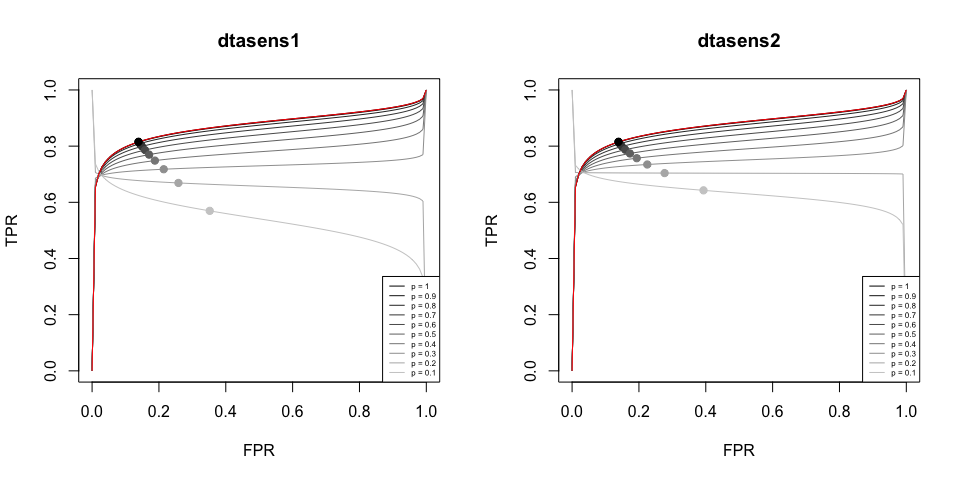
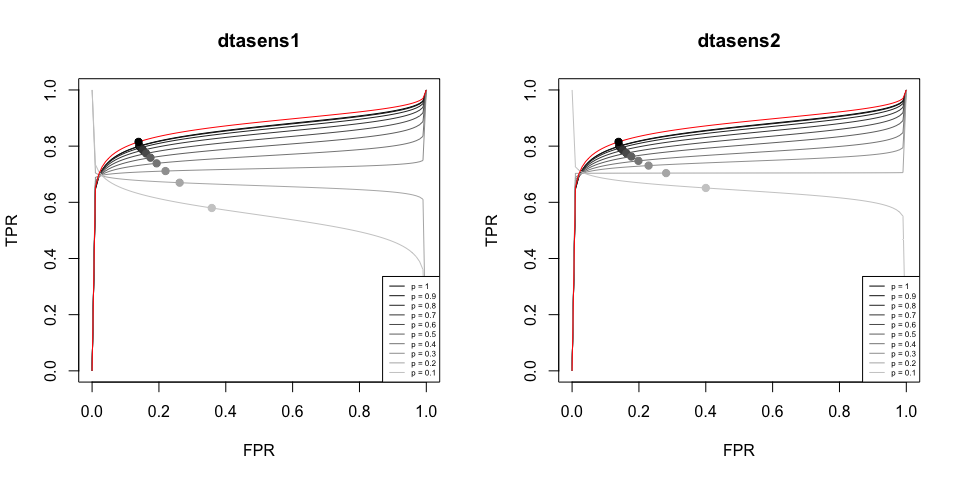
update all

diff --git a/README.md b/README.md
@@ -61,36 +61,36 @@ function.
 dtasens1(IVD, p = 0.7)
 #> $par
 #>     u1     u2     t1     t2      r    t12      b      a    c11    c22    auc 
-#>  1.380  1.740  0.596  0.845 -0.354 -0.178  2.000 -4.290  0.500  0.500  0.851 
+#>  1.299  1.717  0.552  0.842 -0.343 -0.159  2.000 -4.308  0.500  0.500  0.836 
 #>     se     sp 
-#>  0.799  0.851 
+#>  0.786  0.848 
 #> 
 #> $ci
 #>    estimate ci.low ci.up
-#> u1    1.380  1.081  1.67
-#> u2    1.740  1.459  2.02
-#> t1    0.596  0.303  1.01
-#> t2    0.845  0.645  1.15
-#> r    -0.354 -0.748  0.15
-#> b     2.000  0.972    NA
+#> u1    1.299  1.017 1.576
+#> u2    1.717  1.436 1.993
+#> t1    0.552  0.275 0.933
+#> t2    0.842  0.643 1.149
+#> r    -0.343 -0.746 0.164
+#> b     2.000  0.929    NA
 
 ## If we change b.interval
 
 dtasens1(IVD, p = 0.7, b.interval = c(0,1))
 #> $par
 #>     u1     u2     t1     t2      r    t12      b      a    c11    c22    auc 
-#>  1.367  1.729  0.592  0.845 -0.353 -0.177  1.000 -2.077  0.500  0.500  0.849 
+#>  1.288  1.707  0.548  0.842 -0.344 -0.159  1.000 -2.106  0.500  0.500  0.834 
 #>     se     sp 
-#>  0.797  0.849 
+#>  0.784  0.846 
 #> 
 #> $ci
 #>    estimate ci.low ci.up
-#> u1    1.367  1.060 1.672
-#> u2    1.729  1.441 2.015
-#> t1    0.592  0.298 1.005
-#> t2    0.845  0.645 1.151
-#> r    -0.353 -0.748 0.152
-#> b     1.000  0.633    NA
+#> u1    1.288  1.000 1.574
+#> u2    1.707  1.420 1.992
+#> t1    0.548  0.272 0.930
+#> t2    0.842  0.643 1.149
+#> r    -0.344 -0.747 0.164
+#> b     1.000  0.623    NA
 
 ## To get full results list
 
@@ -98,39 +98,39 @@ opt1 <- dtasens1(IVD, p = 0.7)
 
 str(opt1)
 #> List of 11
-#>  $ par        : Named num [1:13] 1.38 1.74 0.596 0.845 -0.354 ...
+#>  $ par        : Named num [1:13] 1.299 1.717 0.552 0.842 -0.343 ...
 #>   ..- attr(*, "names")= chr [1:13] "u1" "u2" "t1" "t2" ...
-#>  $ value      : num 22.9
+#>  $ value      : num 20.9
 #>  $ counts     : Named int [1:2] 18 18
 #>   ..- attr(*, "names")= chr [1:2] "function" "gradient"
 #>  $ convergence: int 0
 #>  $ message    : chr "CONVERGENCE: REL_REDUCTION_OF_F <= FACTR*EPSMCH"
-#>  $ ci         : num [1:6, 1:3] 1.38 1.74 0.596 0.845 -0.354 ...
+#>  $ ci         : num [1:6, 1:3] 1.299 1.717 0.552 0.842 -0.343 ...
 #>   ..- attr(*, "dimnames")=List of 2
 #>   .. ..$ : chr [1:6] "u1" "u2" "t1" "t2" ...
 #>   .. ..$ : chr [1:3] "estimate" "ci.low" "ci.up"
 #>  $ auc.all    :List of 5
-#>   ..$ value       : num 0.851
-#>   ..$ abs.error   : num 1.09e-06
+#>   ..$ value       : num 0.836
+#>   ..$ abs.error   : num 8.84e-07
 #>   ..$ subdivisions: int 10
 #>   ..$ message     : chr "OK"
 #>   ..$ call        : language integrate(f = function(x) {     plogis(u1 - (r * t1/t2) * (qlogis(x) + u2)) ...
 #>   ..- attr(*, "class")= chr "integrate"
 #>  $ p.hat      : num 0.7
 #>  $ data       :'data.frame': 33 obs. of  7 variables:
-#>   ..$ sens  : num [1:33] 0.962 0.833 0.944 0.964 0.9 ...
-#>   ..$ spec  : num [1:33] 0.908 0.837 0.702 0.785 0.913 ...
-#>   ..$ y1    : num [1:33] 3.22 1.61 2.83 3.3 2.2 ...
-#>   ..$ y2    : num [1:33] 2.284 1.638 0.859 1.294 2.35 ...
-#>   ..$ v1    : num [1:33] 2.08 0.6 1.06 2.07 2.22 ...
-#>   ..$ v2    : num [1:33] 0.0374 0.0853 0.0395 0.0689 0.0509 ...
-#>   ..$ ldor.t: num [1:33] 3.78 3.92 3.52 3.14 3.02 ...
+#>   ..$ sens  : num [1:33] 0.962 0.808 0.921 0.964 0.9 ...
+#>   ..$ spec  : num [1:33] 0.908 0.833 0.701 0.785 0.913 ...
+#>   ..$ y1    : num [1:33] 3.22 1.44 2.46 3.3 2.2 ...
+#>   ..$ y2    : num [1:33] 2.284 1.609 0.851 1.294 2.35 ...
+#>   ..$ v1    : num [1:33] 2.08 0.495 0.724 2.074 2.222 ...
+#>   ..$ v2    : num [1:33] 0.0374 0.0828 0.0391 0.0689 0.0509 ...
+#>   ..$ ldor.t: num [1:33] 3.78 4 3.79 3.14 3.02 ...
 #>  $ func.name  : chr "dtasens1"
 #>  $ pars.info  :List of 12
 #>   ..$ p                : num 0.7
 #>   ..$ c1               : num 0.707
 #>   ..$ correct.value    : num 0.5
-#>   ..$ correct.type     : chr "single"
+#>   ..$ correct.type     : chr "all"
 #>   ..$ start5           : NULL
 #>   ..$ b0               : num 0.1
 #>   ..$ b.interval       : num [1:2] 0 2
@@ -166,19 +166,19 @@ kable(est1)
 
 |     |   p = 1 | p = 0.9 | p = 0.8 | p = 0.7 | p = 0.6 | p = 0.5 | p = 0.4 | p = 0.3 | p = 0.2 | p = 0.1 |
 | :-- | ------: | ------: | ------: | ------: | ------: | ------: | ------: | ------: | ------: | ------: |
-| u1  |   1.484 |   1.478 |   1.442 |   1.380 |   1.301 |   1.207 |   1.091 |   0.933 |   0.704 |   0.280 |
-| u2  |   1.824 |   1.819 |   1.791 |   1.740 |   1.671 |   1.582 |   1.464 |   1.299 |   1.054 |   0.610 |
-| t1  |   0.597 |   0.599 |   0.600 |   0.596 |   0.592 |   0.594 |   0.605 |   0.634 |   0.688 |   0.793 |
-| t2  |   0.826 |   0.828 |   0.835 |   0.845 |   0.857 |   0.873 |   0.897 |   0.933 |   0.986 |   1.077 |
-| r   | \-0.424 | \-0.415 | \-0.388 | \-0.354 | \-0.310 | \-0.254 | \-0.176 | \-0.068 |   0.071 |   0.256 |
-| t12 | \-0.209 | \-0.206 | \-0.195 | \-0.178 | \-0.158 | \-0.132 | \-0.096 | \-0.040 |   0.048 |   0.218 |
-| b   |   0.100 |   2.000 |   2.000 |   2.000 |   2.000 |   2.000 |   2.000 |   2.000 |   1.930 |   1.820 |
-| a   |  10.650 | \-2.553 | \-3.636 | \-4.290 | \-4.757 | \-5.123 | \-5.425 | \-5.679 | \-5.729 | \-5.664 |
+| u1  |   1.388 |   1.383 |   1.352 |   1.299 |   1.230 |   1.146 |   1.040 |   0.902 |   0.707 |   0.322 |
+| u2  |   1.804 |   1.799 |   1.769 |   1.717 |   1.645 |   1.553 |   1.430 |   1.267 |   1.036 |   0.584 |
+| t1  |   0.545 |   0.548 |   0.550 |   0.552 |   0.554 |   0.561 |   0.578 |   0.606 |   0.649 |   0.745 |
+| t2  |   0.819 |   0.822 |   0.830 |   0.842 |   0.857 |   0.876 |   0.903 |   0.940 |   0.990 |   1.085 |
+| r   | \-0.423 | \-0.412 | \-0.382 | \-0.343 | \-0.294 | \-0.233 | \-0.151 | \-0.050 |   0.069 |   0.252 |
+| t12 | \-0.189 | \-0.186 | \-0.175 | \-0.159 | \-0.140 | \-0.114 | \-0.079 | \-0.029 |   0.044 |   0.204 |
+| b   |   0.100 |   2.000 |   2.000 |   2.000 |   2.000 |   2.000 |   2.000 |   1.915 |   1.759 |   1.674 |
+| a   |  10.650 | \-2.556 | \-3.647 | \-4.308 | \-4.781 | \-5.151 | \-5.456 | \-5.506 | \-5.352 | \-5.358 |
 | c11 |   0.500 |   0.500 |   0.500 |   0.500 |   0.500 |   0.500 |   0.500 |   0.500 |   0.500 |   0.500 |
 | c22 |   0.500 |   0.500 |   0.500 |   0.500 |   0.500 |   0.500 |   0.500 |   0.500 |   0.500 |   0.500 |
-| auc |   0.874 |   0.872 |   0.864 |   0.851 |   0.834 |   0.810 |   0.778 |   0.729 |   0.657 |   0.540 |
-| se  |   0.815 |   0.814 |   0.809 |   0.799 |   0.786 |   0.770 |   0.749 |   0.718 |   0.669 |   0.570 |
-| sp  |   0.861 |   0.860 |   0.857 |   0.851 |   0.842 |   0.829 |   0.812 |   0.786 |   0.742 |   0.648 |
+| auc |   0.859 |   0.857 |   0.849 |   0.836 |   0.819 |   0.795 |   0.763 |   0.720 |   0.659 |   0.554 |
+| se  |   0.800 |   0.799 |   0.794 |   0.786 |   0.774 |   0.759 |   0.739 |   0.711 |   0.670 |   0.580 |
+| sp  |   0.859 |   0.858 |   0.854 |   0.848 |   0.838 |   0.825 |   0.807 |   0.780 |   0.738 |   0.642 |
 
 ### Function: dtasens2
 
@@ -197,19 +197,19 @@ function.
 dtasens2(IVD, p = 0.7)
 #> $par
 #>     u1     u2     t1     t2      r    t12      b      a    c11    c22    auc 
-#>  1.379  1.741  0.596  0.844 -0.353 -0.178  2.000 -4.254  0.509  0.491  0.851 
+#>  1.297  1.719  0.552  0.841 -0.342 -0.159  2.000 -4.257  0.514  0.486  0.836 
 #>     se     sp 
-#>  0.799  0.851 
+#>  0.785  0.848 
 #> 
 #> $ci
 #>    estimate ci.low ci.up
-#> u1    1.379  1.079 1.672
-#> u2    1.741  1.460 2.018
-#> t1    0.596  0.303 1.009
-#> t2    0.844  0.645 1.149
-#> r    -0.353 -0.748 0.150
-#> b     2.000  0.977    NA
-#> c1    0.714  0.418 0.918
+#> u1    1.297  1.015 1.574
+#> u2    1.719  1.438 1.995
+#> t1    0.552  0.275 0.936
+#> t2    0.841  0.642 1.147
+#> r    -0.342 -0.745 0.164
+#> b     2.000  0.937    NA
+#> c1    0.717  0.411 0.919
 
 ## To get full results list
 
@@ -217,38 +217,38 @@ opt2 <- dtasens2(IVD, p = 0.7)
 
 str(opt2)
 #> List of 11
-#>  $ par        : Named num [1:13] 1.379 1.741 0.596 0.844 -0.353 ...
+#>  $ par        : Named num [1:13] 1.297 1.719 0.552 0.841 -0.342 ...
 #>   ..- attr(*, "names")= chr [1:13] "u1" "u2" "t1" "t2" ...
-#>  $ value      : num 22.9
-#>  $ counts     : Named int [1:2] 19 19
+#>  $ value      : num 20.9
+#>  $ counts     : Named int [1:2] 16 16
 #>   ..- attr(*, "names")= chr [1:2] "function" "gradient"
 #>  $ convergence: int 0
 #>  $ message    : chr "CONVERGENCE: REL_REDUCTION_OF_F <= FACTR*EPSMCH"
-#>  $ ci         : num [1:7, 1:3] 1.379 1.741 0.596 0.844 -0.353 ...
+#>  $ ci         : num [1:7, 1:3] 1.297 1.719 0.552 0.841 -0.342 ...
 #>   ..- attr(*, "dimnames")=List of 2
 #>   .. ..$ : chr [1:7] "u1" "u2" "t1" "t2" ...
 #>   .. ..$ : chr [1:3] "estimate" "ci.low" "ci.up"
 #>  $ auc.all    :List of 5
-#>   ..$ value       : num 0.851
-#>   ..$ abs.error   : num 1.09e-06
+#>   ..$ value       : num 0.836
+#>   ..$ abs.error   : num 8.84e-07
 #>   ..$ subdivisions: int 10
 #>   ..$ message     : chr "OK"
 #>   ..$ call        : language integrate(f = function(x) {     plogis(u1 - (r * t1/t2) * (qlogis(x) + u2)) ...
 #>   ..- attr(*, "class")= chr "integrate"
 #>  $ p.hat      : num 0.7
 #>  $ data       :'data.frame': 33 obs. of  7 variables:
-#>   ..$ sens  : num [1:33] 0.962 0.833 0.944 0.964 0.9 ...
-#>   ..$ spec  : num [1:33] 0.908 0.837 0.702 0.785 0.913 ...
-#>   ..$ y1    : num [1:33] 3.22 1.61 2.83 3.3 2.2 ...
-#>   ..$ y2    : num [1:33] 2.284 1.638 0.859 1.294 2.35 ...
-#>   ..$ v1    : num [1:33] 2.08 0.6 1.06 2.07 2.22 ...
-#>   ..$ v2    : num [1:33] 0.0374 0.0853 0.0395 0.0689 0.0509 ...
-#>   ..$ ldor.t: num [1:33] 3.78 3.92 3.52 3.14 3.02 ...
+#>   ..$ sens  : num [1:33] 0.962 0.808 0.921 0.964 0.9 ...
+#>   ..$ spec  : num [1:33] 0.908 0.833 0.701 0.785 0.913 ...
+#>   ..$ y1    : num [1:33] 3.22 1.44 2.46 3.3 2.2 ...
+#>   ..$ y2    : num [1:33] 2.284 1.609 0.851 1.294 2.35 ...
+#>   ..$ v1    : num [1:33] 2.08 0.495 0.724 2.074 2.222 ...
+#>   ..$ v2    : num [1:33] 0.0374 0.0828 0.0391 0.0689 0.0509 ...
+#>   ..$ ldor.t: num [1:33] 3.78 4 3.79 3.14 3.02 ...
 #>  $ func.name  : chr "dtasens2"
 #>  $ pars.infor :List of 12
 #>   ..$ p                : num 0.7
 #>   ..$ correct.value    : num 0.5
-#>   ..$ correct.type     : chr "single"
+#>   ..$ correct.type     : chr "all"
 #>   ..$ start5           : NULL
 #>   ..$ b0               : num 0.1
 #>   ..$ c10              : num 0.707
@@ -284,19 +284,19 @@ kable(est2)
 
 |     |   p = 1 | p = 0.9 | p = 0.8 | p = 0.7 | p = 0.6 | p = 0.5 | p = 0.4 | p = 0.3 | p = 0.2 | p = 0.1 |
 | :-- | ------: | ------: | ------: | ------: | ------: | ------: | ------: | ------: | ------: | ------: |
-| u1  |   1.484 |   1.478 |   1.439 |   1.379 |   1.309 |   1.230 |   1.137 |   1.018 |   0.867 |   0.587 |
-| u2  |   1.824 |   1.820 |   1.794 |   1.741 |   1.665 |   1.563 |   1.427 |   1.237 |   0.960 |   0.434 |
-| t1  |   0.597 |   0.600 |   0.601 |   0.596 |   0.590 |   0.586 |   0.587 |   0.599 |   0.618 |   0.668 |
-| t2  |   0.826 |   0.828 |   0.833 |   0.844 |   0.859 |   0.881 |   0.911 |   0.957 |   1.022 |   1.142 |
-| r   | \-0.424 | \-0.416 | \-0.388 | \-0.353 | \-0.312 | \-0.261 | \-0.194 | \-0.103 |   0.005 |   0.172 |
-| t12 | \-0.209 | \-0.206 | \-0.195 | \-0.178 | \-0.158 | \-0.135 | \-0.104 | \-0.059 |   0.003 |   0.131 |
-| b   |   0.100 |   2.000 |   2.000 |   2.000 |   2.000 |   2.000 |   2.000 |   1.981 |   1.836 |   1.736 |
-| a   |  10.650 | \-2.201 | \-3.450 | \-4.254 | \-4.855 | \-5.329 | \-5.708 | \-5.979 | \-5.889 | \-5.888 |
-| c11 |   0.500 |   0.603 |   0.551 |   0.509 |   0.475 |   0.450 |   0.431 |   0.417 |   0.399 |   0.384 |
-| c22 |   0.500 |   0.397 |   0.449 |   0.491 |   0.525 |   0.550 |   0.569 |   0.583 |   0.601 |   0.616 |
-| auc |   0.874 |   0.872 |   0.864 |   0.851 |   0.834 |   0.813 |   0.786 |   0.749 |   0.704 |   0.632 |
-| se  |   0.815 |   0.814 |   0.808 |   0.799 |   0.787 |   0.774 |   0.757 |   0.735 |   0.704 |   0.643 |
-| sp  |   0.861 |   0.861 |   0.857 |   0.851 |   0.841 |   0.827 |   0.806 |   0.775 |   0.723 |   0.607 |
+| u1  |   1.388 |   1.382 |   1.349 |   1.297 |   1.236 |   1.168 |   1.086 |   0.998 |   0.867 |   0.624 |
+| u2  |   1.804 |   1.800 |   1.773 |   1.719 |   1.640 |   1.535 |   1.396 |   1.215 |   0.938 |   0.405 |
+| t1  |   0.545 |   0.549 |   0.552 |   0.552 |   0.551 |   0.552 |   0.558 |   0.564 |   0.582 |   0.624 |
+| t2  |   0.819 |   0.821 |   0.828 |   0.841 |   0.859 |   0.884 |   0.919 |   0.963 |   1.029 |   1.154 |
+| r   | \-0.423 | \-0.412 | \-0.382 | \-0.342 | \-0.297 | \-0.243 | \-0.174 | \-0.104 | \-0.003 |   0.156 |
+| t12 | \-0.189 | \-0.186 | \-0.175 | \-0.159 | \-0.141 | \-0.119 | \-0.089 | \-0.056 | \-0.002 |   0.112 |
+| b   |   0.100 |   2.000 |   2.000 |   2.000 |   2.000 |   2.000 |   1.994 |   1.801 |   1.683 |   1.600 |
+| a   |  10.650 | \-2.176 | \-3.440 | \-4.257 | \-4.870 | \-5.352 | \-5.723 | \-5.567 | \-5.537 | \-5.581 |
+| c11 |   0.500 |   0.615 |   0.558 |   0.514 |   0.477 |   0.450 |   0.431 |   0.408 |   0.393 |   0.378 |
+| c22 |   0.500 |   0.385 |   0.442 |   0.486 |   0.523 |   0.550 |   0.569 |   0.592 |   0.607 |   0.622 |
+| auc |   0.859 |   0.857 |   0.849 |   0.836 |   0.819 |   0.799 |   0.773 |   0.744 |   0.704 |   0.642 |
+| se  |   0.800 |   0.799 |   0.794 |   0.785 |   0.775 |   0.763 |   0.748 |   0.731 |   0.704 |   0.651 |
+| sp  |   0.859 |   0.858 |   0.855 |   0.848 |   0.838 |   0.823 |   0.802 |   0.771 |   0.719 |   0.600 |
 
 ### Plot sROC
 
@@ -404,40 +404,62 @@ The confidence interval (CI) is calculated by parametric bootstrapping.
 ## Use dtasens object
 
 sAUC(opt1)
-#> 0.851 with absolute error < 1.1e-06
+#> 0.836 with absolute error < 8.8e-07
 sAUC(opt2)
-#> 0.851 with absolute error < 1.1e-06
+#> 0.836 with absolute error < 8.8e-07
 
 ## Use parameter vector
-par1
-#>     u1     u2     t1     t2      r    t12      b      a    c11    c22    auc 
-#>  1.380  1.740  0.596  0.845 -0.354 -0.178  2.000 -4.290  0.500  0.500  0.851 
-#>     se     sp 
-#>  0.799  0.851
+par1 <- opt1$par
+par2 <- opt2$par
 sAUC(par1)
-#> 0.851 with absolute error < 1.1e-06
-par2
-#>     u1     u2     t1     t2      r    t12      b      a    c11    c22    auc 
-#>  1.379  1.741  0.596  0.844 -0.353 -0.178  2.000 -4.254  0.509  0.491  0.851 
-#>     se     sp 
-#>  0.799  0.851
+#> 0.836 with absolute error < 8.8e-07
 sAUC(par2)
-#> 0.851 with absolute error < 1.1e-06
+#> 0.836 with absolute error < 8.8e-07
+
+
+par(mfrow = c(1,2))
+
+sROC(opt1)
+title("dtasens1")
+sROC(opt2)
+title("dtasens2")
+```
+
+<img src="man/figures/README-unnamed-chunk-9-1.png" width="100%" />
+
+``` r
+
+par(mfrow = c(1,1))
+```
+
+2.  Single sROC with CI
+
+<!-- end list -->
+
+``` r
 
 ## Calculate Parametric Bootstrap CI
 ## B (Bootstrapping times) is suggested to be 1000. To save computing time, we use B = 10 to show the functionality.
+par(mfrow = c(1,2))
 
-sAUC.ci(opt1, B=10)
-#>   |                                                |                                        |   0%  |                                                |====                                    |  10%  |                                                |========                                |  20%  |                                                |============                            |  30%  |                                                |================                        |  40%  |                                                |====================                    |  50%  |                                                |========================                |  60%  |                                                |============================            |  70%  |                                                |================================        |  80%  |                                                |====================================    |  90%  |                                                |========================================| 100%
+sAUC.ci(opt1, B=5, plot.ROC.ci = TRUE, hide.progress = TRUE)
 #>  sAUC  CI.L  CI.L 
-#> 0.851 0.774 0.930
-sAUC.ci(opt2, B=10)
-#>   |                                                |                                        |   0%  |                                                |====                                    |  10%  |                                                |========                                |  20%  |                                                |============                            |  30%  |                                                |================                        |  40%  |                                                |====================                    |  50%  |                                                |========================                |  60%  |                                                |============================            |  70%  |                                                |================================        |  80%  |                                                |====================================    |  90%  |                                                |========================================| 100%
+#> 0.836 0.780 0.885
+title("dtasens1")
+sAUC.ci(opt2, B=5, plot.ROC.ci = TRUE, hide.progress = TRUE)
 #>  sAUC  CI.L  CI.L 
-#> 0.851 0.804 0.878
+#> 0.836 0.756 0.873
+title("dtasens2")
 ```
 
-2.  Multiple sAUC
+<img src="man/figures/README-unnamed-chunk-10-1.png" width="100%" />
+
+``` r
+
+par(mfrow = c(1,1))
+```
+
+3.  Multiple sAUC
 
 <!-- end list -->
 
@@ -469,9 +491,9 @@ kable(sauc1)
 
 |      | p = 1 | p = 0.9 | p = 0.8 | p = 0.7 | p = 0.6 | p = 0.5 | p = 0.4 | p = 0.3 | p = 0.2 | p = 0.1 |
 | :--- | ----: | ------: | ------: | ------: | ------: | ------: | ------: | ------: | ------: | ------: |
-| sAUC | 0.874 |   0.872 |   0.864 |   0.851 |   0.834 |   0.810 |   0.778 |   0.729 |   0.657 |   0.540 |
-| CI.L | 0.852 |   0.845 |   0.821 |   0.720 |   0.715 |   0.645 |   0.686 |   0.629 |   0.534 |   0.392 |
-| CI.U | 0.897 |   0.894 |   0.899 |   0.927 |   0.932 |   0.950 |   0.944 |   0.920 |   0.987 |   0.966 |
+| sAUC | 0.859 |   0.857 |   0.849 |   0.836 |   0.819 |   0.795 |   0.763 |   0.720 |   0.659 |   0.554 |
+| CI.L | 0.848 |   0.850 |   0.831 |   0.794 |   0.788 |   0.683 |   0.670 |   0.508 |   0.506 |   0.329 |
+| CI.U | 0.866 |   0.874 |   0.875 |   0.875 |   0.845 |   0.853 |   0.839 |   0.929 |   0.872 |   0.884 |
 
 ``` r
 
@@ -482,9 +504,9 @@ kable(sauc2)
 
 |      | p = 1 | p = 0.9 | p = 0.8 | p = 0.7 | p = 0.6 | p = 0.5 | p = 0.4 | p = 0.3 | p = 0.2 | p = 0.1 |
 | :--- | ----: | ------: | ------: | ------: | ------: | ------: | ------: | ------: | ------: | ------: |
-| sAUC | 0.874 |   0.872 |   0.864 |   0.851 |   0.834 |   0.813 |   0.786 |   0.749 |   0.704 |   0.632 |
-| CI.L | 0.827 |   0.804 |   0.837 |   0.780 |   0.806 |   0.648 |   0.696 |   0.576 |   0.506 |   0.442 |
-| CI.U | 0.914 |   0.899 |   0.887 |   0.901 |   0.868 |   0.876 |   0.862 |   0.822 |   0.849 |   0.811 |
+| sAUC | 0.859 |   0.857 |   0.849 |   0.836 |   0.819 |   0.799 |   0.773 |   0.744 |   0.704 |   0.642 |
+| CI.L | 0.830 |   0.830 |   0.831 |   0.816 |   0.705 |   0.677 |   0.756 |   0.678 |   0.633 |   0.502 |
+| CI.U | 0.892 |   0.876 |   0.860 |   0.860 |   0.862 |   0.883 |   0.816 |   0.841 |   0.784 |   0.776 |
 
 3.  Plot sAUC
 
@@ -513,7 +535,7 @@ axis(1, at = 1:10, labels = p.seq)
 title("dtasens2")
 ```
 
-<img src="man/figures/README-unnamed-chunk-11-1.png" width="100%" />
+<img src="man/figures/README-unnamed-chunk-12-1.png" width="100%" />
 
 ``` r
 
